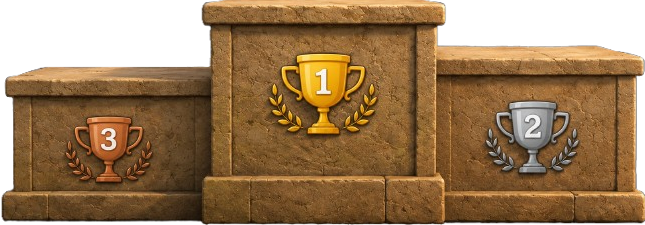
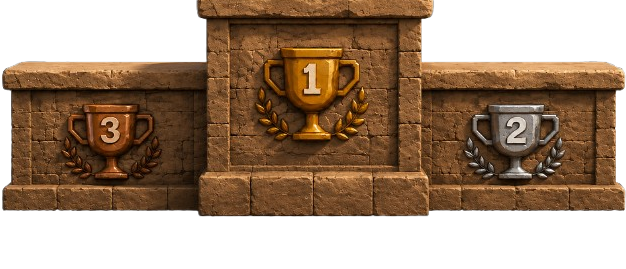
Add podium ice + sand

diff --git a/singleplayer/HighScore/online/planet15.html b/singleplayer/HighScore/online/planet15.html
@@ -104,7 +104,7 @@
             </div>
         </div>
         
-        <img class="podium-img" src="../../../images/podium/1.png">
+        <img class="podium-img" src="../../../images/podium/3.png">
 
         <table>
             <thead>

diff --git a/singleplayer/HighScore/online/planet3.html b/singleplayer/HighScore/online/planet3.html
@@ -104,7 +104,7 @@
             </div>
         </div>
         
-        <img class="podium-img" src="../../../images/podium/1.png">
+        <img class="podium-img" src="../../../images/podium/2.png">
 
         <table>
             <thead>

diff --git a/singleplayer/HighScore/online/planet5.html b/singleplayer/HighScore/online/planet5.html
@@ -104,7 +104,7 @@
             </div>
         </div>
         
-        <img class="podium-img" src="../../../images/podium/1.png">
+        <img class="podium-img" src="../../../images/podium/3.png">
 
         <table>
             <thead>

diff --git a/singleplayer/HighScore/online/planet8.html b/singleplayer/HighScore/online/planet8.html
@@ -104,7 +104,7 @@
             </div>
         </div>
         
-        <img class="podium-img" src="../../../images/podium/1.png">
+        <img class="podium-img" src="../../../images/podium/2.png">
 
         <table>
             <thead>
